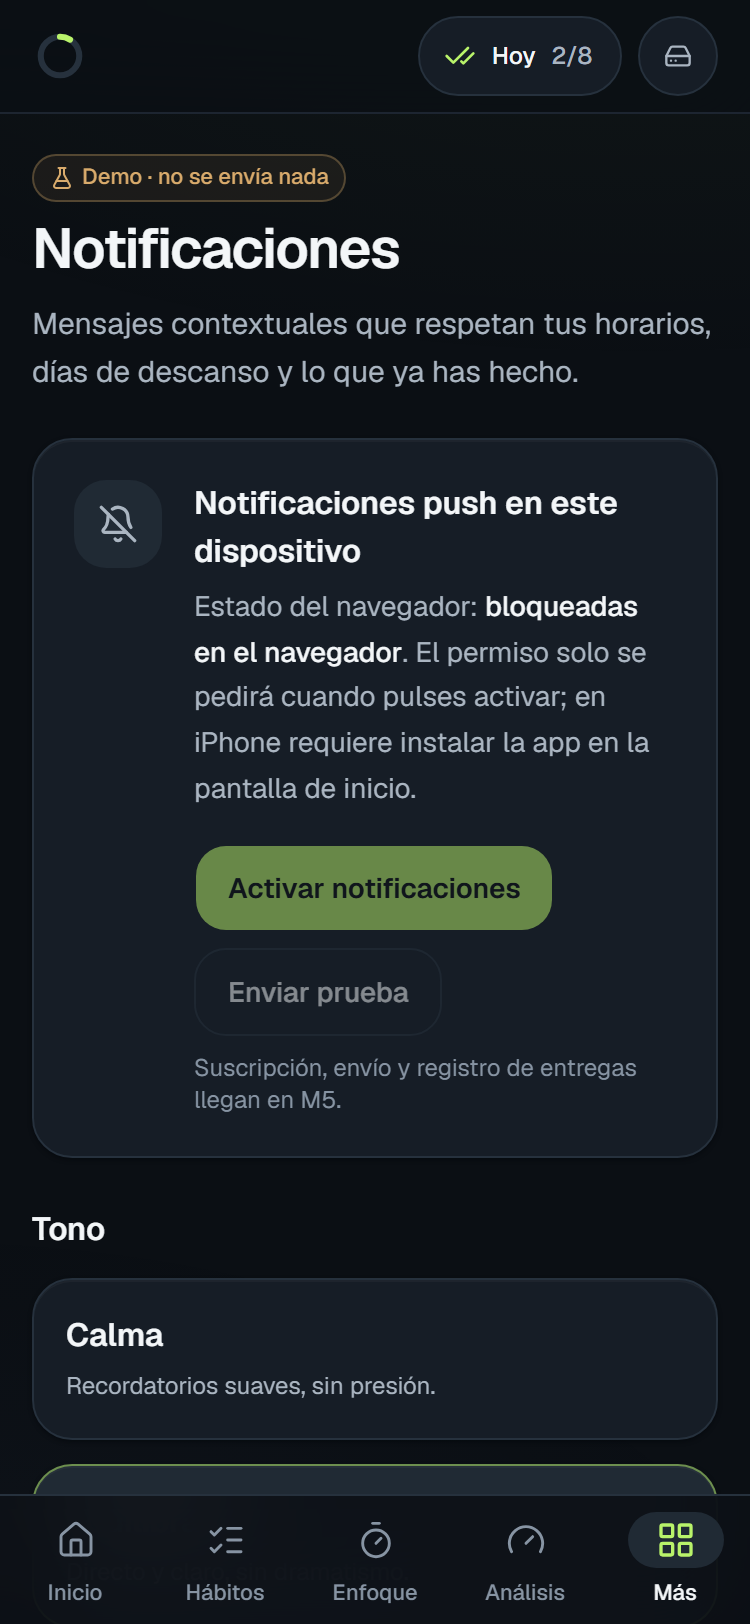
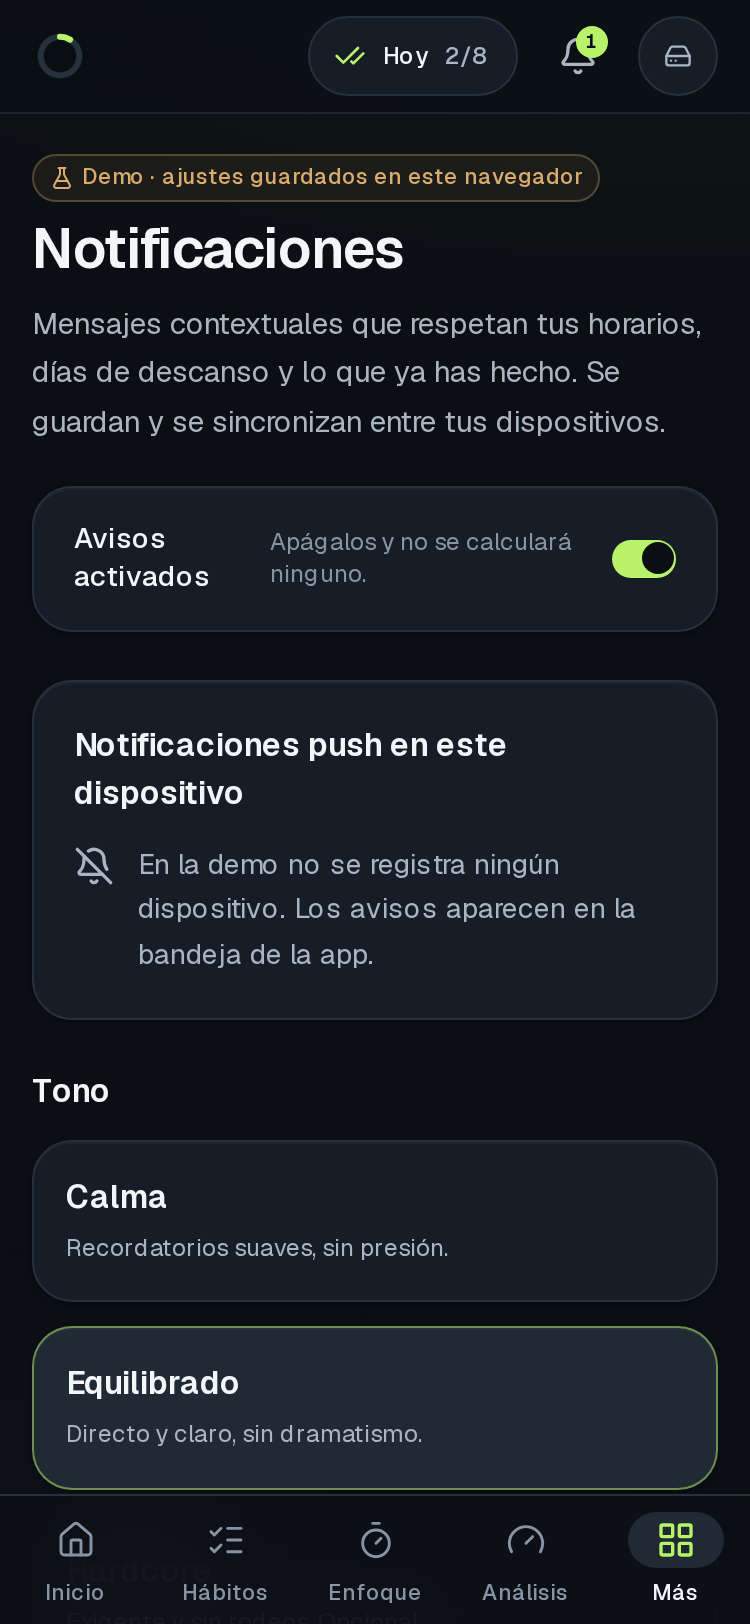
docs(f4): guía de uso y capturas de las pantallas nuevas (#27)
* docs(f4): guía de uso y capturas de las pantallas nuevas

- docs/guia-uso.md: entrar, el Resumen y sus estados, hábitos, objetivos,
  enfoque, mente, revisiones, conocimiento, análisis, avisos y push, sin
  conexión y varios dispositivos, y ajustes.
- Capturas móvil y escritorio de Revisiones, Inteligencia, Repaso, Ajustes,
  Más y la bandeja; Resumen y Notificaciones actualizadas.
- F3 bloqueada (sin Docker ni la frase de paso de las copias) y nueva F7:
  exportación CSV que pide el PRD §7.

* docs(f4): PR #27 en PROGRESS

* test(e2e): screen-error espera al servidor y a la cola vacía antes de cortar la red

«Sincronizado» podía ser el estado de antes del alta del hábito; al cortar la
red, el alta seguía en la cola junto al toque (2 en vez de 1). Se refuerza la
puerta D39 sin debilitarla.

* test(e2e): cerrar la app solo con la escritura ya en el dispositivo

La CI de la PR #27 cerró la página 130 ms después de «Empezar» sin conexión
y la sesión aún no estaba en IndexedDB. focus-account, mind-account y
reviews-account esperan ahora a que la operación esté en la cola guardada
(storedOpTypes), como quien cierra la app unos segundos después;
screen-error usa la misma ayuda. El límite real queda documentado en
PROGRESS.md.

---------

diff --git a/e2e/screen-error.spec.ts b/e2e/screen-error.spec.ts
@@ -1,5 +1,6 @@
 import { expect, test } from "./fixtures"
 import { countRows, newAccount, removeAccount, signIn, type Account } from "./support/account"
+import { storedOpTypes } from "./support/offline"
 
 /**
  * Runs in the page: opening the device copy (the «the-one-percent» database) answers `ms` later, as
@@ -44,7 +45,12 @@ test.describe("account · a failing screen keeps syncing", () => {
     await page.getByRole("button", { name: /^(Nuevo|Crear) hábito$/ }).first().click()
     await page.getByRole("dialog").getByLabel("Nombre").fill("Respirar")
     await page.getByRole("dialog").getByRole("button", { name: "Crear hábito" }).click()
+    // The server has the habit first: until the create is sent, «Sincronizado» may still be the
+    // status from before it, and going offline then kept it queued next to the tap (PR #27).
+    await expect.poll(() => countRows("select count(*)::int n from public.habits where user_id = $1 and title = 'Respirar'", [account.id]), { timeout: 15_000 }).toBe(1)
     await expect(page.getByRole("button", { name: /Estado de datos: Sincronizado/ })).toBeVisible({ timeout: 15_000 })
+    // …and the device copy no longer holds it: only an acknowledged op leaves the stored queue.
+    await expect.poll(() => storedOpTypes(page), { timeout: 15_000 }).toEqual([])
 
     await context.setOffline(true)
     await page.getByRole("region", { name: "Hoy" }).getByRole("button", { name: /^Respirar, / }).click()

diff --git a/e2e/screenshots.spec.ts b/e2e/screenshots.spec.ts
@@ -1,7 +1,7 @@
 import { expect, FIXED_NOW, test } from "./fixtures"
 
 /** Visual record for milestone reviews. Run with: npm run screenshots */
-const ROUTES = ["/", "/habits", "/analytics", "/focus", "/mind", "/knowledge/library", "/knowledge/discover", "/knowledge/brain", "/goals", "/settings/notifications"]
+const ROUTES = ["/", "/habits", "/analytics", "/focus", "/mind", "/knowledge/library", "/knowledge/discover", "/knowledge/brain", "/goals", "/settings/notifications", "/reviews", "/intelligence", "/knowledge/brain/repaso", "/settings", "/more"]
 
 test.describe("@screens", () => {
   for (const route of ROUTES) {
@@ -13,6 +13,16 @@ test.describe("@screens", () => {
       await page.screenshot({ path: `docs/screenshots/${info.project.name}-${name}.png`, fullPage: info.project.name === "desktop" })
     })
   }
+
+  // F4: the inbox open over the Resumen (E7).
+  test("capture inbox", async ({ page }, info) => {
+    await page.goto("/")
+    await expect(page.getByTestId("overview-day")).toBeVisible()
+    await page.getByTestId("inbox-button").locator("visible=true").click()
+    await expect(page.getByRole("dialog")).toBeVisible()
+    await page.waitForTimeout(400) // sheet animation
+    await page.screenshot({ path: `docs/screenshots/${info.project.name}-inbox.png` })
+  })
 
   test("capture analytics drilldown", async ({ page }, info) => {
     await page.goto("/analytics")

diff --git a/e2e/support/offline.ts b/e2e/support/offline.ts
@@ -36,3 +36,26 @@ export async function setConnection(page: Page, online: boolean) {
   await page.evaluate(([key, off]) => (off ? localStorage.setItem(key, "1") : localStorage.removeItem(key)), [OFFLINE_KEY, !online] as const)
   await page.context().setOffline(!online)
 }
+
+/**
+ * Types of the ops in the queue of the device copy (IndexedDB), as stored right now: what survives
+ * if the app is closed this instant. The screen shows a write before it is stored (optimistic UI);
+ * a test that closes the app must wait for this, as a person closing it seconds later would.
+ */
+export function storedOpTypes(page: Page): Promise<string[]> {
+  return page.evaluate(
+    () =>
+      new Promise<string[]>((resolve, reject) => {
+        const open = indexedDB.open("the-one-percent")
+        open.onerror = () => reject(open.error)
+        open.onsuccess = () => {
+          const all = open.result.transaction("sync", "readonly").objectStore("sync").getAll()
+          all.onsuccess = () => {
+            open.result.close()
+            resolve((all.result as { queue?: { op: { type: string } }[] }[]).flatMap((v) => (v?.queue ?? []).map((q) => q.op.type)))
+          }
+        }
+      })
+  )
+}
+

diff --git a/e2e/focus-account.spec.ts b/e2e/focus-account.spec.ts
@@ -2,6 +2,7 @@ import type { BrowserContext, Page } from "@playwright/test"
 import { db } from "../tests/integration/setup"
 import { expect, isMobile, test } from "./fixtures"
 import { countRows, newAccount, removeAccount, signIn, type Account, liveWellPastMidnight } from "./support/account"
+import { storedOpTypes } from "./support/offline"
 
 /** M3.2c · Deep Work in account mode against the LOCAL Supabase stack: real rows, sync, no fictitious data. */
 test.use({ mode: "account" })
@@ -67,6 +68,9 @@ test.describe("focus · account mode", () => {
     await page.getByRole("button", { name: /^Empezar/ }).click()
     await expect(page.getByRole("region", { name: "Bloque en curso" })).toBeVisible()
     expect(await sessions()).toBe(0)
+    // The app is closed once the start is on the device, not in the same instant: on a slow runner
+    // the copy was still being written 130 ms after the tap (PR #27; known limit in PROGRESS.md).
+    await expect.poll(() => storedOpTypes(page), { timeout: 15_000 }).toContain("focus.start")
     await page.close()
     await context.setOffline(false)
 

diff --git a/e2e/mind-account.spec.ts b/e2e/mind-account.spec.ts
@@ -1,6 +1,7 @@
 import type { BrowserContext, Page } from "@playwright/test"
 import { expect, isMobile, test } from "./fixtures"
 import { countRows, newAccount, removeAccount, signIn, type Account } from "./support/account"
+import { storedOpTypes } from "./support/offline"
 
 /**
  * M3.3c · Mind & Energy in account mode against the LOCAL Supabase stack: real rows, two devices,
@@ -58,6 +59,8 @@ test.describe("mind & energy · account mode", () => {
     await scale(page, "Ánimo").getByRole("radio", { name: "3, Normal" }).click()
     await expect(sheet(page).getByRole("status")).toContainText("se enviará al recuperar la conexión")
     expect(await rows()).toBe(0)
+    // Closed once the write is on the device, as a person closing the app seconds later (PR #27).
+    await expect.poll(() => storedOpTypes(page), { timeout: 15_000 }).toContain("checkin.set")
     await page.close()
     await context.setOffline(false)
 

diff --git a/e2e/reviews-account.spec.ts b/e2e/reviews-account.spec.ts
@@ -1,6 +1,7 @@
 import { errors, type Browser, type BrowserContext, type Page, type TestInfo } from "@playwright/test"
 import { expect, isMobile, test } from "./fixtures"
 import { countRows, newAccount, removeAccount, signIn, type Account } from "./support/account"
+import { storedOpTypes } from "./support/offline"
 import { db } from "../tests/integration/setup"
 
 /**
@@ -99,6 +100,8 @@ test.describe("life review · account mode", () => {
     await expect(page.getByTestId("review-save")).toContainText("se enviará al recuperar la conexión")
     await expect(page.getByTestId("review-save")).not.toContainText("Sincronizado")
     expect(await row()).toBeNull()
+    // Closed once the write is on the device, as a person closing the app seconds later (PR #27).
+    await expect.poll(() => storedOpTypes(page), { timeout: 15_000 }).toContain("review.save")
     await page.close()
     await context.setOffline(false)
 

diff --git a/docs/guia-uso.md b/docs/guia-uso.md
@@ -1,0 +1,83 @@
+# Guía de uso
+
+Cómo se usa THE ONE PERCENT en el día a día. Las capturas están en [`screenshots/`](screenshots/), en versión móvil (375 px) y escritorio, y salen de la demo con el reloj fijo en el miércoles 21 de octubre de 2026 (`npm run screenshots`). Para probar en un iPhone real: [`guia-dispositivo.md`](guia-dispositivo.md).
+
+## Entrar
+
+- **Con cuenta:** escribe tu email en `/login` y pulsa «Enviar enlace de acceso». Abre el enlace del correo o escribe el código de 6 dígitos. Solo entran los emails autorizados: no hay registro público.
+- **Demo:** explora sin cuenta con datos de ejemplo guardados solo en ese navegador. Todo lo que viene de la demo lleva la etiqueta «Demo». Desde Ajustes puedes llevar a tu cuenta hábitos de la demo («Importar desde la demo»).
+- **Instalar en el móvil:** en iPhone, Safari → Compartir → «Añadir a pantalla de inicio». Instalada, la app arranca también sin conexión en un dispositivo que ya la abrió con red, y en iPhone es la única forma de recibir notificaciones push.
+
+## El día: Resumen (`/`)
+
+![Resumen en móvil](screenshots/mobile-overview.png)
+
+El Resumen dice qué requiere atención hoy y distingue cuatro situaciones que podrían parecer «nada hecho»:
+
+| Lo que ves | Qué significa |
+| --- | --- |
+| «Empieza por tu primer hábito» | Aún no hay datos: no es un 0 %. |
+| «Hoy es día de descanso planificado» | Descanso decidido: no cuenta como incumplimiento ni baja ningún porcentaje. |
+| «N hábitos pendientes hoy», con hechos, pendientes y en descanso | Día normal; lo pendiente aún puede hacerse. |
+| «Ayer quedaron N hábitos sin hacer» | Incumplimiento de ayer, contado aparte. El enlace lleva a la matriz para registrarlo tarde si se te olvidó apuntarlo. |
+| Aviso «No se pudo sincronizar» | Error del servidor: ves la copia de este dispositivo, tus cambios esperan aquí y «Reintentar» los envía. |
+
+Debajo están la lista de hoy (un toque marca un hábito; los numéricos piden la cantidad), los atajos (Hábitos, Repaso con su contador, Revisiones y Analytics), el check-in que toca, la revisión pendiente, «Empezar bloque» de Enfoque, el tema de hoy y lo que estás leyendo. Al final, el cumplimiento de 30 días por dimensión y los objetivos activos.
+
+## Hábitos (`/habits`)
+
+- **Crear:** «Nuevo hábito». Puede ser binario (hecho o no), numérico (p. ej. ≥ 8000 pasos) o de duración. La frecuencia es cada día, unos días de la semana o N veces por semana. Cuenta desde el día en que lo creas y solo los días programados.
+- **Registrar:** en «Hoy» o en la matriz semanal (en móvil, «Semana»). Un día pasado se puede registrar tarde.
+- **Día de descanso:** en la matriz, toca la cabecera del día → «Marcar como descanso». Ese día no cuenta en ninguna métrica.
+- **Editar o archivar:** desde el nombre del hábito. Cambiar la frecuencia no altera las semanas anteriores. El historial de cambios del hábito está en su ficha.
+- Los hábitos alimentados por Enfoque (p. ej. «Deep Work 90 min») se completan solos con los minutos de tus sesiones.
+
+## Objetivos (`/goals`)
+
+«Nuevo objetivo»: por hábitos (sostenerlos por encima de un umbral), por una cifra que mides tú o calculado con los registros de un hábito, con fecha e hitos. También se le pueden vincular libros. Su ficha muestra el avance y su ritmo, y guarda obstáculos y ajustes. El filtro separa activos, en revisión, cerrados (conseguidos o abandonados) y archivo.
+
+## Enfoque (`/focus`)
+
+Elige 25, 50 o 90 minutos y «Empezar». Se puede pausar, y al terminar se anotan, si quieres, el proyecto y las interrupciones. Si cierras la app con un bloque en marcha, al volver se recupera. Las estadísticas de concentración están en la misma pantalla y en Analytics.
+
+## Mente (`/mind`)
+
+Check-in de mañana y de noche (sueño, energía, ánimo, estrés y una nota), en unos pocos toques y sin botón de guardar. La tira de «Últimos 7 días» muestra qué días tienen cada check-in; pulsa un día para verlo o editarlo. Nunca hay diagnósticos.
+
+## Revisiones (`/reviews`)
+
+Diarias, semanales y mensuales:
+- La **diaria** tiene las cifras del día, «¿Qué has observado?» y «¿Qué vas a ajustar?».
+- La **semanal** y la **mensual** recorren cifras, dificultades, reflexión y decisiones.
+
+Al cerrar una revisión, sus cifras quedan congeladas tal como eran ese día. Las decisiones se siguen en el registro de decisiones (`/reviews/decisions`).
+
+## Conocimiento
+
+- **Biblioteca** (`/knowledge/library`): «Añadir libro», «Añadir programa» o «Añadir episodio». La búsqueda asistida (Open Library, Apple Podcasts) rellena los datos y puedes revisarlos antes de guardar; también hay formulario manual. Cada ficha guarda el estado, el progreso, la valoración, las notas y las ideas, y permite «buscar y actualizar datos» después sin pisar lo que escribiste.
+- **Cerebro** (`/knowledge/brain`): todas tus notas e ideas, con búsqueda y filtros. **Repaso** (`/knowledge/brain/repaso`) es el repaso espaciado: crea una tarjeta desde una idea, y al repasar responde «Otra vez», «Difícil», «Bien» o «Fácil». Funciona sin conexión.
+- **Descubrir** (`/knowledge/discover`): un tema al día, igual en todos tus dispositivos. Puedes valorarlo de 1 a 10, guardarlo o descartarlo, y escribir tus propios temas. Los temas incluidos son síntesis sin verificar y así se indica.
+
+## Análisis
+
+- **Analytics** (`/analytics`): cumplimiento, tendencias, comparativas de semanas y meses cerrados, relaciones entre variables y proyección de la semana siguiente. Cada cifra abre los registros de los que sale. Las relaciones exigen un mínimo de días y nunca se presentan como causa.
+- **Inteligencia** (`/intelligence`): hallazgos calculados con reglas («Reglas · sin IA»), cada uno con su periodo, sus variables y su número de datos, y experimentos de 7 a 28 días que se comparan con los mismos días anteriores. La IA generativa está apagada: necesitaría un proveedor de pago no autorizado.
+
+## Avisos (`/settings/notifications`)
+
+![Bandeja de avisos](screenshots/mobile-inbox.png)
+
+- **Bandeja** (la campana): recordatorios según tus ajustes (tono, máximo diario, separación mínima, horas de silencio, días sin avisos y qué avisos quieres). Antes de mostrarse se vuelve a comprobar si ya hiciste el hábito o si es día de descanso.
+- **Push en este dispositivo:** «Activar en este dispositivo» pide el permiso del navegador solo en ese momento. Cada dispositivo se activa y desactiva por separado, y desde la lista puedes quitar otro (un móvil perdido). Al cerrar sesión, ese navegador deja de recibir push.
+  - Hoy solo se envía la **notificación de prueba** («Enviar prueba»). El envío programado de los recordatorios por push está pendiente de autorización (E9 en `PROGRESS.md`). Mientras, los recordatorios llegan a la bandeja.
+  - En un servidor sin claves VAPID, la sección lo dice y no ofrece activar.
+
+## Sin conexión y varios dispositivos
+
+- Lo que registras sin conexión se guarda en el dispositivo y se envía una sola vez al volver la red. El indicador de la cabecera («Estado de datos») dice si está sincronizado, pendiente, sin conexión o con error.
+- Si dos dispositivos cambian lo mismo, gana el cambio más reciente. En los textos largos (reflexiones, notas) la app te muestra el conflicto para que elijas, sin perder ninguna versión.
+- «Hoy» sigue la zona horaria de tu perfil (Ajustes → Zona horaria), igual en todos tus dispositivos, y corrige la hora del dispositivo con la del servidor.
+
+## Ajustes (`/settings`)
+
+Zona horaria, «Exportar mis datos (JSON)», diagnóstico de sincronización y «Cerrar sesión». Al cerrar sesión puedes elegir «Borrar los datos de este dispositivo», recomendado en dispositivos compartidos. Si hay cambios sin enviar, la app te avisa antes de borrarlos.

diff --git a/PROGRESS.md b/PROGRESS.md
@@ -45,19 +45,24 @@ Plan de la Misión Maestra (orden del 2026-11-09). Fases y estimaciones en `docs
 | E8 | Push: suscripción por dispositivo y permiso tras acción clara | Test de navegador; alta y baja independientes por dispositivo | Sí | xhigh | E7 | hecha | #24 |
 | E9 | Envío programado de push en servidor (reglas del Motivation Engine reevaluadas al enviar, registro de entregas sin duplicados) | Integración: un hábito hecho no recibe aviso; un reintento no duplica | Sí | xhigh | E8 | bloqueada | — |
 | F1 | Integración final del Command Center y sus estados | E2E de los cuatro estados del Plan §5.1 | Sí | high | B–E (E9 bloqueada, no la necesita) | hecha | #25 |
-| F2 | Accesibilidad y rendimiento de vistas clave (incluye el salto de diseño del Resumen al cargar en móvil, visto en la PR #25) | `a11y.spec.ts` ampliado; mediciones documentadas | Sí | high | F1 | PR lista para fusionar | #26 |
-| F3 | Simulacro de respaldo y restauración | `restore:drill` correcto, con resultado documentado | Sí | high | F1 | pendiente | — |
-| F4 | Guía de uso y validación móvil | `docs/guia-uso.md`; capturas móvil y escritorio | Sí | medium | F2 | pendiente | — |
+| F2 | Accesibilidad y rendimiento de vistas clave (incluye el salto de diseño del Resumen al cargar en móvil, visto en la PR #25) | `a11y.spec.ts` ampliado; mediciones documentadas | Sí | high | F1 | hecha | #26 |
+| F3 | Simulacro de respaldo y restauración | `restore:drill` correcto, con resultado documentado | Sí | high | F1 | bloqueada | — |
+| F4 | Guía de uso y validación móvil | `docs/guia-uso.md`; capturas móvil y escritorio | Sí | medium | F2 | PR lista para fusionar | #27 |
 | F5 | `docs/publicacion.md`: publicar, revertir, separar la base | Procedimiento completo revisado contra el repo | Sí | medium | F2 | pendiente | — |
-| F6 | Documentación final y versión candidata (DONE.md) | Criterios §12 de la orden con evidencia | Sí | high | F1–F5 | pendiente | — |
+| F6 | Documentación final y versión candidata (DONE.md) | Criterios §12 de la orden con evidencia | Sí | high | F1, F2, F4, F5, F7 (F3 bloqueada) | pendiente | — |
+| F7 | Exportación CSV de los registros (PRD §7: «Export JSON and CSV») | Unitarias del CSV (escapes, zona, columnas); E2E: la descarga contiene los registros | Sí | medium | — | pendiente | — |
 
 Estados: pendiente · en curso · hecha · bloqueada · PR lista para fusionar
 
 ## Bloqueos
 
+- **F3 · Simulacro de respaldo y restauración (requiere el entorno de Dani).** `npm run restore:drill` arranca una Supabase aparte en Docker, carga la copia, compara recuentos y sumas por tabla y destruye la pila. `npm run backup` vuelca con `pg_dump` dentro del contenedor. Esta máquina no tiene Docker (`docker: command not found`) ni `pg_dump`. Las copias se cifran con `BACKUP_PASSPHRASE`, que guarda Dani, y la copia de la nube necesita `SUPABASE_DB_URL`, que no está en `.env.local`. Enfoques descartados: (1) ejecutarlo aquí, sin Docker; (2) la copia de la nube, que también usa Docker y una credencial fuera de `.env.local`; (3) GitHub Actions, que sí tiene Docker, pero exigiría tocar `.github/` o levantar una segunda Supabase en cada PR. Procedimiento para Dani en `docs/backup-strategy.md`: `npm run backup -- --source cloud` y después `npm run restore:drill -- <copia>`.
+
 - **E9 · Envío programado de push (pendiente autorizable).** Necesita tres cosas que Skynet no puede hacer sin permiso: (1) claves VAPID en las variables de Vercel (`NEXT_PUBLIC_VAPID_PUBLIC_KEY`, `VAPID_PRIVATE_KEY`, `VAPID_SUBJECT`), que son configuración en la nube; (2) un planificador que despierte al servidor cada pocos minutos: el Cron de Vercel en el plan Hobby solo se ejecuta una vez al día y solo en producción, el de cada pocos minutos es de pago (Pro), y `pg_cron` en Supabase correría sobre la misma base que usa la app desplegada; (3) una clave de servicio de Supabase en el servidor para leer los datos de cada persona al evaluar, que hoy la app no usa en ningún sitio. Con E8 ya se puede activar el push por dispositivo y enviar la notificación de prueba en cuanto existan las claves; los avisos siguen llegando a la bandeja. Diseño previsto en `DECISIONS.md` (2026-11-10).
 
 **Limitación conocida:** la prueba de humo contra un preview da 10 de 22. Las 12 restantes pasan todos sus pasos y fallan solo en la aserción final de la consola, porque la CSP de la app bloquea la barra de comentarios que Vercel inyecta en los previews (`vercel.live/_next-live/feedback/feedback.js`). En la CI, sobre el build local, pasan las 22. Medido en las PR #3, #4 y #5.
+
+**Limitación conocida (medida en la PR #27):** un cambio hecho sin conexión aparece en pantalla al instante y tarda unos milisegundos en quedar en la copia del dispositivo (IndexedDB): 130 ms no bastaron en un runner lento de la CI. Si en ese intervalo se fuerza el cierre de la app (deslizarla fuera), el cambio se pierde aunque la pantalla lo mostrara. Navegar o recargar dentro de la app sí espera a la copia (M4-H1), y con red el cambio ya va camino del servidor. Es un límite del almacenamiento del navegador. Para reducir ese intervalo habría que guardar la cola aparte del resto de la copia (cambio del motor, xhigh); queda propuesto, no hecho.
 
 **Resuelto en F2:** el «hoy» de la app usaba solo el reloj del dispositivo (destapado en la PR #15). Ahora, tras la primera respuesta del servidor, lo corrige con el desfase medido (`engine-today.test.ts`). Antes de esa respuesta sigue valiendo el reloj del dispositivo.
 

diff --git a/DECISIONS.md b/DECISIONS.md
@@ -4,6 +4,11 @@ Registro de lo que Claude decidió por su cuenta. Una entrada por decisión, la 
 
 | Fecha | Decisión | Alternativa descartada | Motivo |
 | --- | --- | --- | --- |
+| 2026-11-10 | Las pruebas que «cierran la app» tras escribir sin conexión esperan a que la escritura esté en la copia del dispositivo (`storedOpTypes`) antes de cerrar: Enfoque, Mente y Revisiones, en la PR #27 | Mostrar el cambio en pantalla solo cuando ya esté guardado; o relanzar | La CI cerró la página 130 ms después de «Empezar» y la sesión aún no estaba en IndexedDB. Esperar al guardado en cada toque rompería la respuesta < 100 ms que pide el PRD (UI optimista, §6). El límite real queda escrito en PROGRESS.md, con la mejora posible |
+| 2026-11-10 | `screen-error.spec.ts` espera a que el servidor tenga el hábito y a que la cola guardada esté vacía antes de cortar la red, y la corrección va en la PR #27 | Relanzar la CI | Es una puerta permanente (D39) y se refuerza, no se debilita. «Sincronizado» podía ser el estado de antes del alta: al cortar la red, el alta seguía en la cola junto al toque (2 en vez de 1, en la CI de la PR #27, que no toca nada de eso) |
+| 2026-11-10 | F3 (simulacro de restauración) queda bloqueada y F6 no espera por ella | Instalar Docker en la máquina o ensayar sobre staging | Instalar software del sistema queda fuera de lo autorizado. Ensayar sobre staging escribiría en la misma base que usa la app desplegada. DONE.md la listará como bloqueada con el procedimiento para Dani |
+| 2026-11-10 | Nueva tarea F7: exportación CSV | Dar la exportación por completa con el JSON | El PRD §7 pide JSON y CSV, y la matriz la daba por validada solo con el JSON |
+| 2026-11-10 | F4 regenera solo las capturas de las pantallas nuevas o cambiadas (14 nuevas y 4 actualizadas) | Volver a generar las 88 | Ya ocupan 31 MB en el repositorio y regenerarlas todas duplicaría ese peso en el historial sin mostrar nada nuevo. `npm run screenshots` sigue generándolas todas cuando haga falta |
 | 2026-11-10 | El Resumen solo pinta el esqueleto del encabezado de hoy mientras no hay datos; la lista, la columna lateral, las dimensiones y los objetivos aparecen con los datos | Ajustar la altura de cada esqueleto a la del contenido | La altura real depende de los datos (hábitos del día, «ayer quedaron…»). Lo que aparece nuevo no cuenta como salto; lo que se desplaza sí. CLS en un móvil: de 0,64 a 0,004 |
 | 2026-11-10 | El «hoy» del motor usa el reloj del dispositivo más el desfase con el servidor, una vez medido | Pedir `server_today` en cada cálculo; o dejarlo como limitación | El desfase ya se mide en cada respuesta y sirve también para los sellos de tiempo. Antes de la primera respuesta no hay otra referencia que el dispositivo |
 | 2026-11-10 | Los selectores de shadcn miden 44 px en móvil y 32 en escritorio (en `select.tsx`) | Quitar a mano su variante de tamaño en cada pantalla | Su `data-[size=default]:h-8` ganaba por especificidad a cualquier `h-11` (11 selectores que creían medir 44). En escritorio no cambia nada |

diff --git a/docs/matriz-funcional.md b/docs/matriz-funcional.md
@@ -58,7 +58,7 @@ Estado medido el 2026-11-09 sobre `0530bdd`, ya integrado en `skynet/integracion
 | Transversal | PWA y arranque sin red | SP | `manifest.ts`, `public/sw.js`, `upgrade.spec.ts`, CI; iPhone sin probar | Prueba real con `docs/guia-dispositivo.md` (Dani) | Media |
 | Transversal | Autenticación, lista de acceso y RLS | IV | `account.spec.ts`, `metadata-auth.int.test.ts`, M2.5 | Repaso final (A7) | Alta |
 | Transversal | Respaldo y restauración | SP | `backup*.mjs`, `restore-drill.mjs`, `backup-strategy.md`; simulacro sin repetir | Simulacro (F3) | Media |
-| Transversal | Exportación | IV | `settings-view.tsx`, E2E, CI | — | — |
+| Transversal | Exportación | P | JSON en `settings-view.tsx`, E2E, CI | CSV (PRD §7): F7 | Media |
 | Transversal | Accesibilidad | IV | `e2e/a11y.spec.ts` (axe en 18 pantallas y estados, zonas táctiles de 44 px en móvil en 16), CI; `docs/rendimiento.md` | VoiceOver en iPhone real (Dani, `docs/guia-dispositivo.md`) | Media |
 | Transversal | Rendimiento | IV | `npm run measure:views`, `docs/rendimiento.md`, `reports/f2-views.json`: < 3 s en 4G con CPU ×4, toque de 78 ms, CLS < 0,1; `bench-*` de M4 | Medición en teléfono real | Baja |
 | Transversal | Uso en dispositivo real (móvil y ordenador) | NV | Depende de Dani | Guía (A8, F4) | Media |
